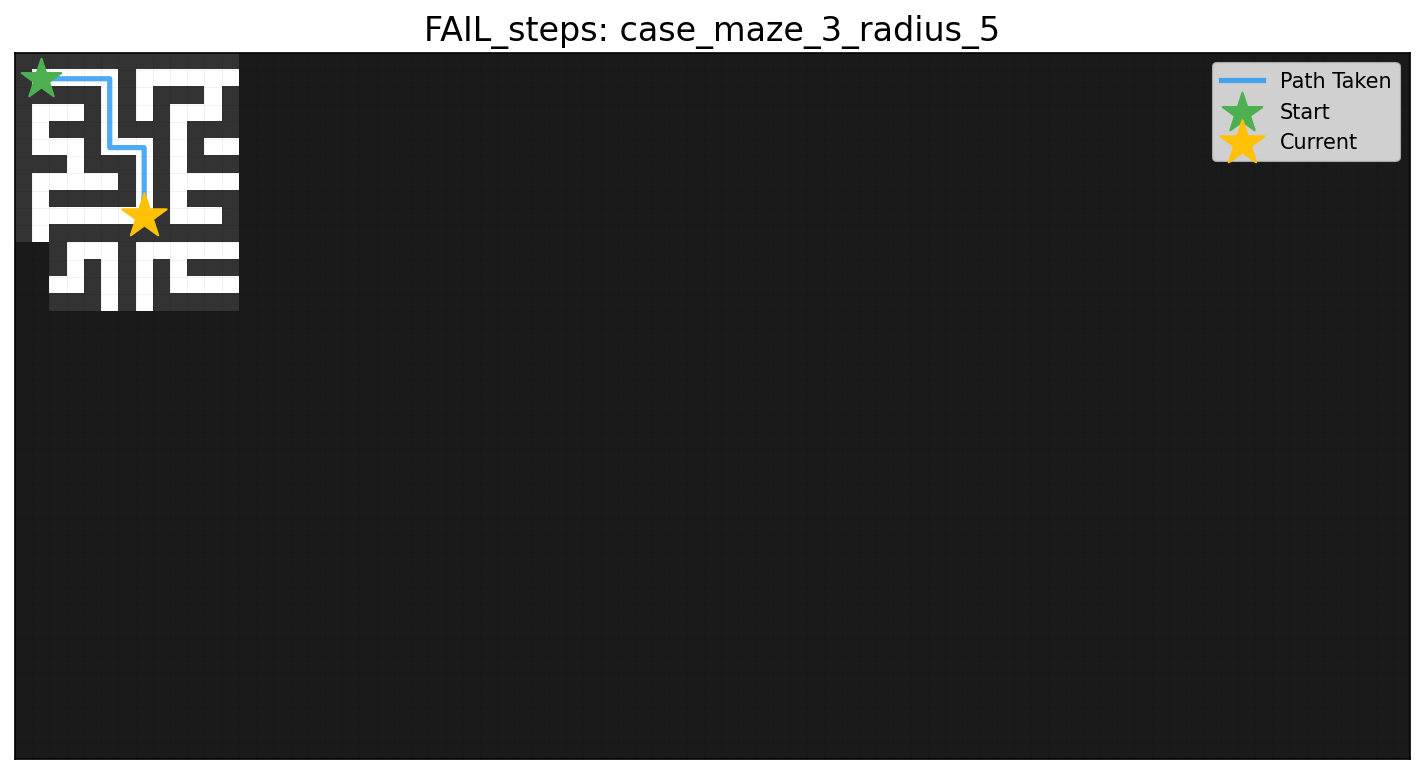
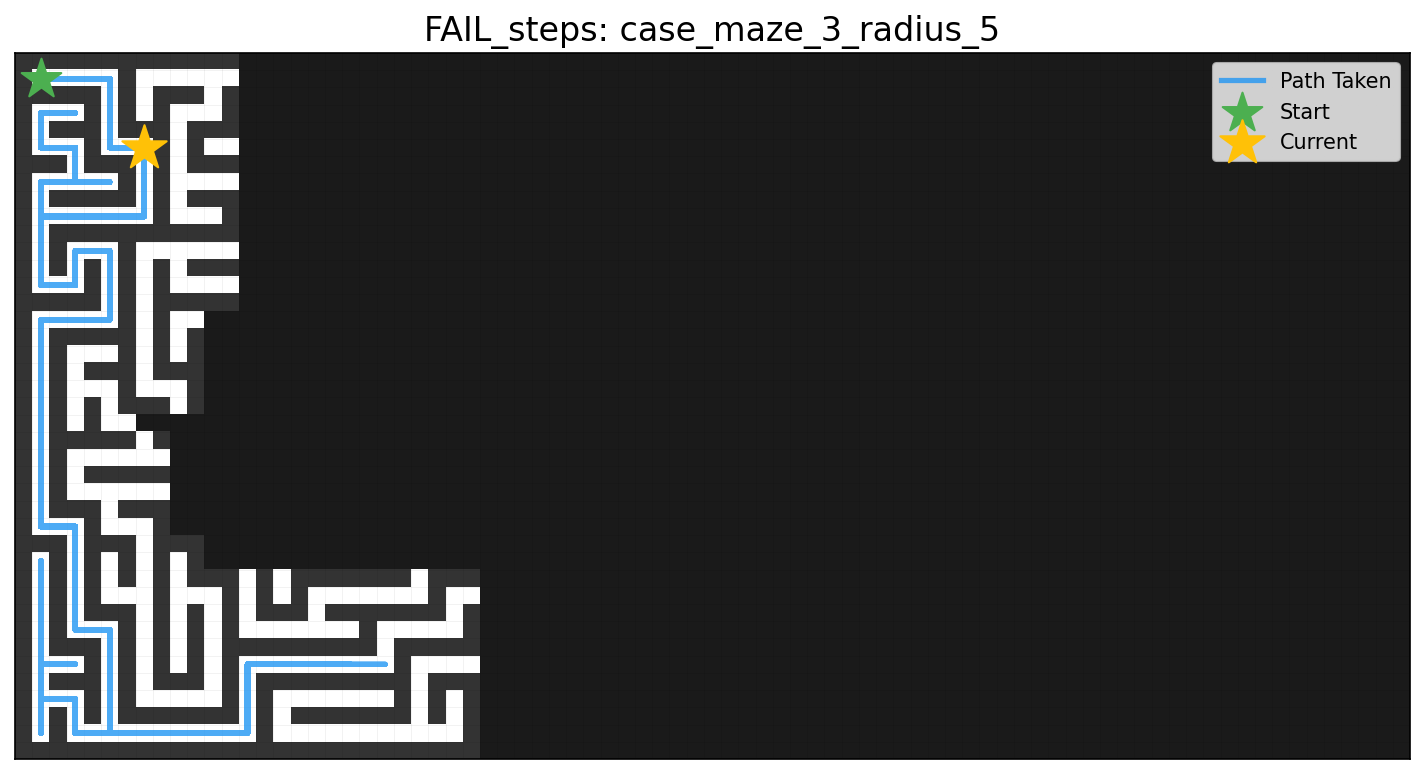
A*加bfs效果也不太行

diff --git a/candidate_planner.py b/candidate_planner.py
@@ -1,6 +1,5 @@
 import numpy as np
 import random
-import math
 from collections import deque
 import heapq
 
@@ -13,76 +12,63 @@ class Planner:
         
         # 存储边界点（frontier points）
         self.frontier_points = set()
-        # 存储目标点
-        self.targets = set()
         # 当前路径
         self.current_path = deque()
-        
-        # 边界点搜索参数
-        self.kernel_size = max(3, view_radius // 2)  # 边界检测核大小
-        self.last_frontier = None  # 上次选择的边界点
-        
-        # 快速搜索数据结构
-        self.unexplored_mask = np.ones(map_shape, dtype=bool)  # 修复：使用实例变量map_shape
-        
         # A*算法缓存
         self.a_star_cache = {}
         
     def update_knowledge(self, current_pos: tuple[int, int], local_view: np.ndarray):
         r = self.view_radius
         x, y = current_pos
-        h, w = self.map_shape  # 使用self.map_shape
+        h, w = self.known_map.shape
         
         y_start, y_end = max(0, y - r), min(h, y + r + 1)
         x_start, x_end = max(0, x - r), min(w, x + r + 1)
         
-        # 保存旧地图状态用于边界点更新
-        old_map = self.known_map.copy()
-        
         # 更新已知地图
         self.known_map[y_start:y_end, x_start:x_end] = local_view
         
-        # 更新未探索区域掩码
-        self.unexplored_mask[y_start:y_end, x_start:x_end] = False
-        
         # 更新边界点
-        self.update_frontier_points(old_map, y_start, y_end, x_start, x_end)
+        self.update_frontier_points(current_pos)
     
-    def update_frontier_points(self, old_map, y_start, y_end, x_start, x_end):
-        """高效更新边界点集合（已知与未知的交界）"""
+    def update_frontier_points(self, current_pos: tuple[int, int]):
+        """更新边界点集合（已知与未知的交界）"""
+        r = self.view_radius
+        x, y = current_pos
+        h, w = self.known_map.shape
+        
+        y_start, y_end = max(0, y - r), min(h, y + r + 1)
+        x_start, x_end = max(0, x - r), min(w, x + r + 1)
+        
         # 清除当前视野内的边界点
         for py in range(y_start, y_end):
             for px in range(x_start, x_end):
                 self.frontier_points.discard((px, py))
         
-        # 添加新的边界点（仅检查当前视野内的新探索单元）
+        # 添加新的边界点
         for py in range(y_start, y_end):
             for px in range(x_start, x_end):
-                # 只处理新探索的空地单元格
-                if old_map[py, px] != self.known_map[py, px] and self.known_map[py, px] == 0:
-                    # 检查8邻域内是否有未知区域
-                    for dy in range(-1, 2):
-                        for dx in range(-1, 2):
-                            if dx == 0 and dy == 0:
-                                continue
-                            nx, ny = px + dx, py + dy
-                            if 0 <= ny < self.map_shape[0] and 0 <= nx < self.map_shape[1]:
-                                if self.known_map[ny, nx] == -1:
-                                    self.frontier_points.add((px, py))
-                                    break
-                        else:
-                            continue
-                        break
+                # 只处理自由空间单元格
+                if self.known_map[py, px] != 0:
+                    continue
+                
+                # 检查4邻域内是否有未知区域
+                for dx, dy in [(0, 1), (0, -1), (1, 0), (-1, 0)]:
+                    nx, ny = px + dx, py + dy
+                    if 0 <= ny < h and 0 <= nx < w:
+                        if self.known_map[ny, nx] == -1:
+                            self.frontier_points.add((px, py))
+                            break
     
     def plan_next_step(self, current_pos: tuple[int, int], all_possible_targets: list[tuple[int, int]]) -> tuple[int, int]:
         if not self.path_taken or self.path_taken[-1] != current_pos:
             self.path_taken.append(current_pos)
         
-        # 更新目标集合
-        self.targets = set(all_possible_targets)
+        # 将目标列表转换为集合提高查找效率
+        target_set = set(all_possible_targets)
         
-        # 如果当前位置是目标，直接返回
-        if current_pos in self.targets and self.known_map[current_pos[1], current_pos[0]] == 0:
+        # 如果当前位置就是目标，返回当前位置
+        if current_pos in target_set and self.known_map[current_pos[1], current_pos[0]] == 0:
             return current_pos
         
         # 如果有当前路径且未完成，继续沿着路径移动
@@ -96,7 +82,7 @@ class Planner:
                 self.current_path.clear()
         
         # 尝试规划到已知目标点的路径
-        known_targets = [t for t in self.targets 
+        known_targets = [t for t in target_set 
                          if 0 <= t[1] < self.map_shape[0] and 
                          0 <= t[0] < self.map_shape[1] and 
                          self.known_map[t[1], t[0]] == 0]
@@ -115,56 +101,22 @@ class Planner:
         
         # 如果没有已知目标，尝试规划到边界点的路径
         if self.frontier_points:
-            # 高效查找最近的边界点
-            closest_frontier = self.find_closest_frontier_efficient(current_pos)
-            if closest_frontier:
-                # 使用A*规划到边界点的路径
-                path = self.a_star(current_pos, closest_frontier)
-                if path:
-                    self.current_path = deque(path)
-                    if self.current_path:
-                        return self.current_path.popleft()
+            # 找到最近的边界点
+            closest_frontier = min(self.frontier_points, 
+                                  key=lambda p: self.manhattan_distance(current_pos, p))
+            
+            # 使用A*规划到边界点的路径
+            path = self.a_star(current_pos, closest_frontier)
+            if path:
+                self.current_path = deque(path)
+                if self.current_path:
+                    return self.current_path.popleft()
         
-        # 最后尝试随机合法移动（朝向未探索区域）
-        return self.directed_random_move(current_pos)
-    
-    def find_closest_frontier_efficient(self, current_pos: tuple[int, int]) -> tuple[int, int]:
-        """高效查找最近的边界点（三步策略）"""
-        if not self.frontier_points:
-            return None
-        
-        # 1. 如果有上次的边界点且仍存在，优先返回
-        if self.last_frontier and self.last_frontier in self.frontier_points:
-            return self.last_frontier
-        
-        # 2. 使用最近探索历史寻找边界点（常数时间）
-        closest = self.find_near_frontier_from_history(current_pos)
-        if closest:
-            self.last_frontier = closest
-            return closest
-        
-        # 3. 使用距离启发式选择（O(N)但N很小）
-        closest = min(self.frontier_points, key=lambda p: self.manhattan_distance(current_pos, p))
-        self.last_frontier = closest
-        return closest
-    
-    def find_near_frontier_from_history(self, current_pos):
-        """从最近的探索历史中查找边界点（常数时间）"""
-        # 检查最近的10个路径点
-        history_points = self.path_taken[-10:] if len(self.path_taken) > 10 else self.path_taken
-        
-        # 为每个点检查周围2x2区域
-        for pos in history_points:
-            x, y = pos
-            for dy in range(-2, 3):
-                for dx in range(-2, 3):
-                    point = (x + dx, y + dy)
-                    if point in self.frontier_points:
-                        return point
-        return None
+        # 最后尝试随机合法移动
+        return self.random_valid_move(current_pos)
     
     def a_star(self, start: tuple[int, int], goal: tuple[int, int]) -> list:
-        """带缓存的A*路径规划算法"""
+        """A*路径规划算法"""
         # 检查缓存
         cache_key = (start, goal)
         if cache_key in self.a_star_cache:
@@ -228,36 +180,18 @@ class Planner:
         self.a_star_cache[cache_key] = []
         return None
     
-    def directed_random_move(self, current_pos: tuple[int, int]) -> tuple[int, int]:
-        """智能随机移动：倾向探索方向"""
+    def random_valid_move(self, current_pos: tuple[int, int]) -> tuple[int, int]:
+        """随机选择合法移动"""
         motions = [(0, 1), (0, -1), (1, 0), (-1, 0)]
-        valid_moves = []
+        random.shuffle(motions)
         
-        # 收集所有有效移动
         for dx, dy in motions:
             next_pos = (current_pos[0] + dx, current_pos[1] + dy)
             if self.is_valid_move(current_pos, next_pos):
-                valid_moves.append(next_pos)
+                return next_pos
         
-        if not valid_moves:
-            return current_pos
-        
-        # 优先选择未知区域方向
-        for move in valid_moves:
-            x, y = move
-            if (0 <= y < self.map_shape[0] and 0 <= x < self.map_shape[1] and
-                self.known_map[y, x] == -1):
-                return move
-        
-        # 其次选择已知自由空间
-        for move in valid_moves:
-            x, y = move
-            if (0 <= y < self.map_shape[0] and 0 <= x < self.map_shape[1] and
-                self.known_map[y, x] == 0):
-                return move
-        
-        # 最后选择任意有效移动（应有但在上述条件未覆盖）
-        return valid_moves[0]
+        # 无合法移动时保持原位
+        return current_pos
     
     def is_valid_move(self, from_pos: tuple[int, int], to_pos: tuple[int, int]) -> bool:
         """检查移动是否合法"""
